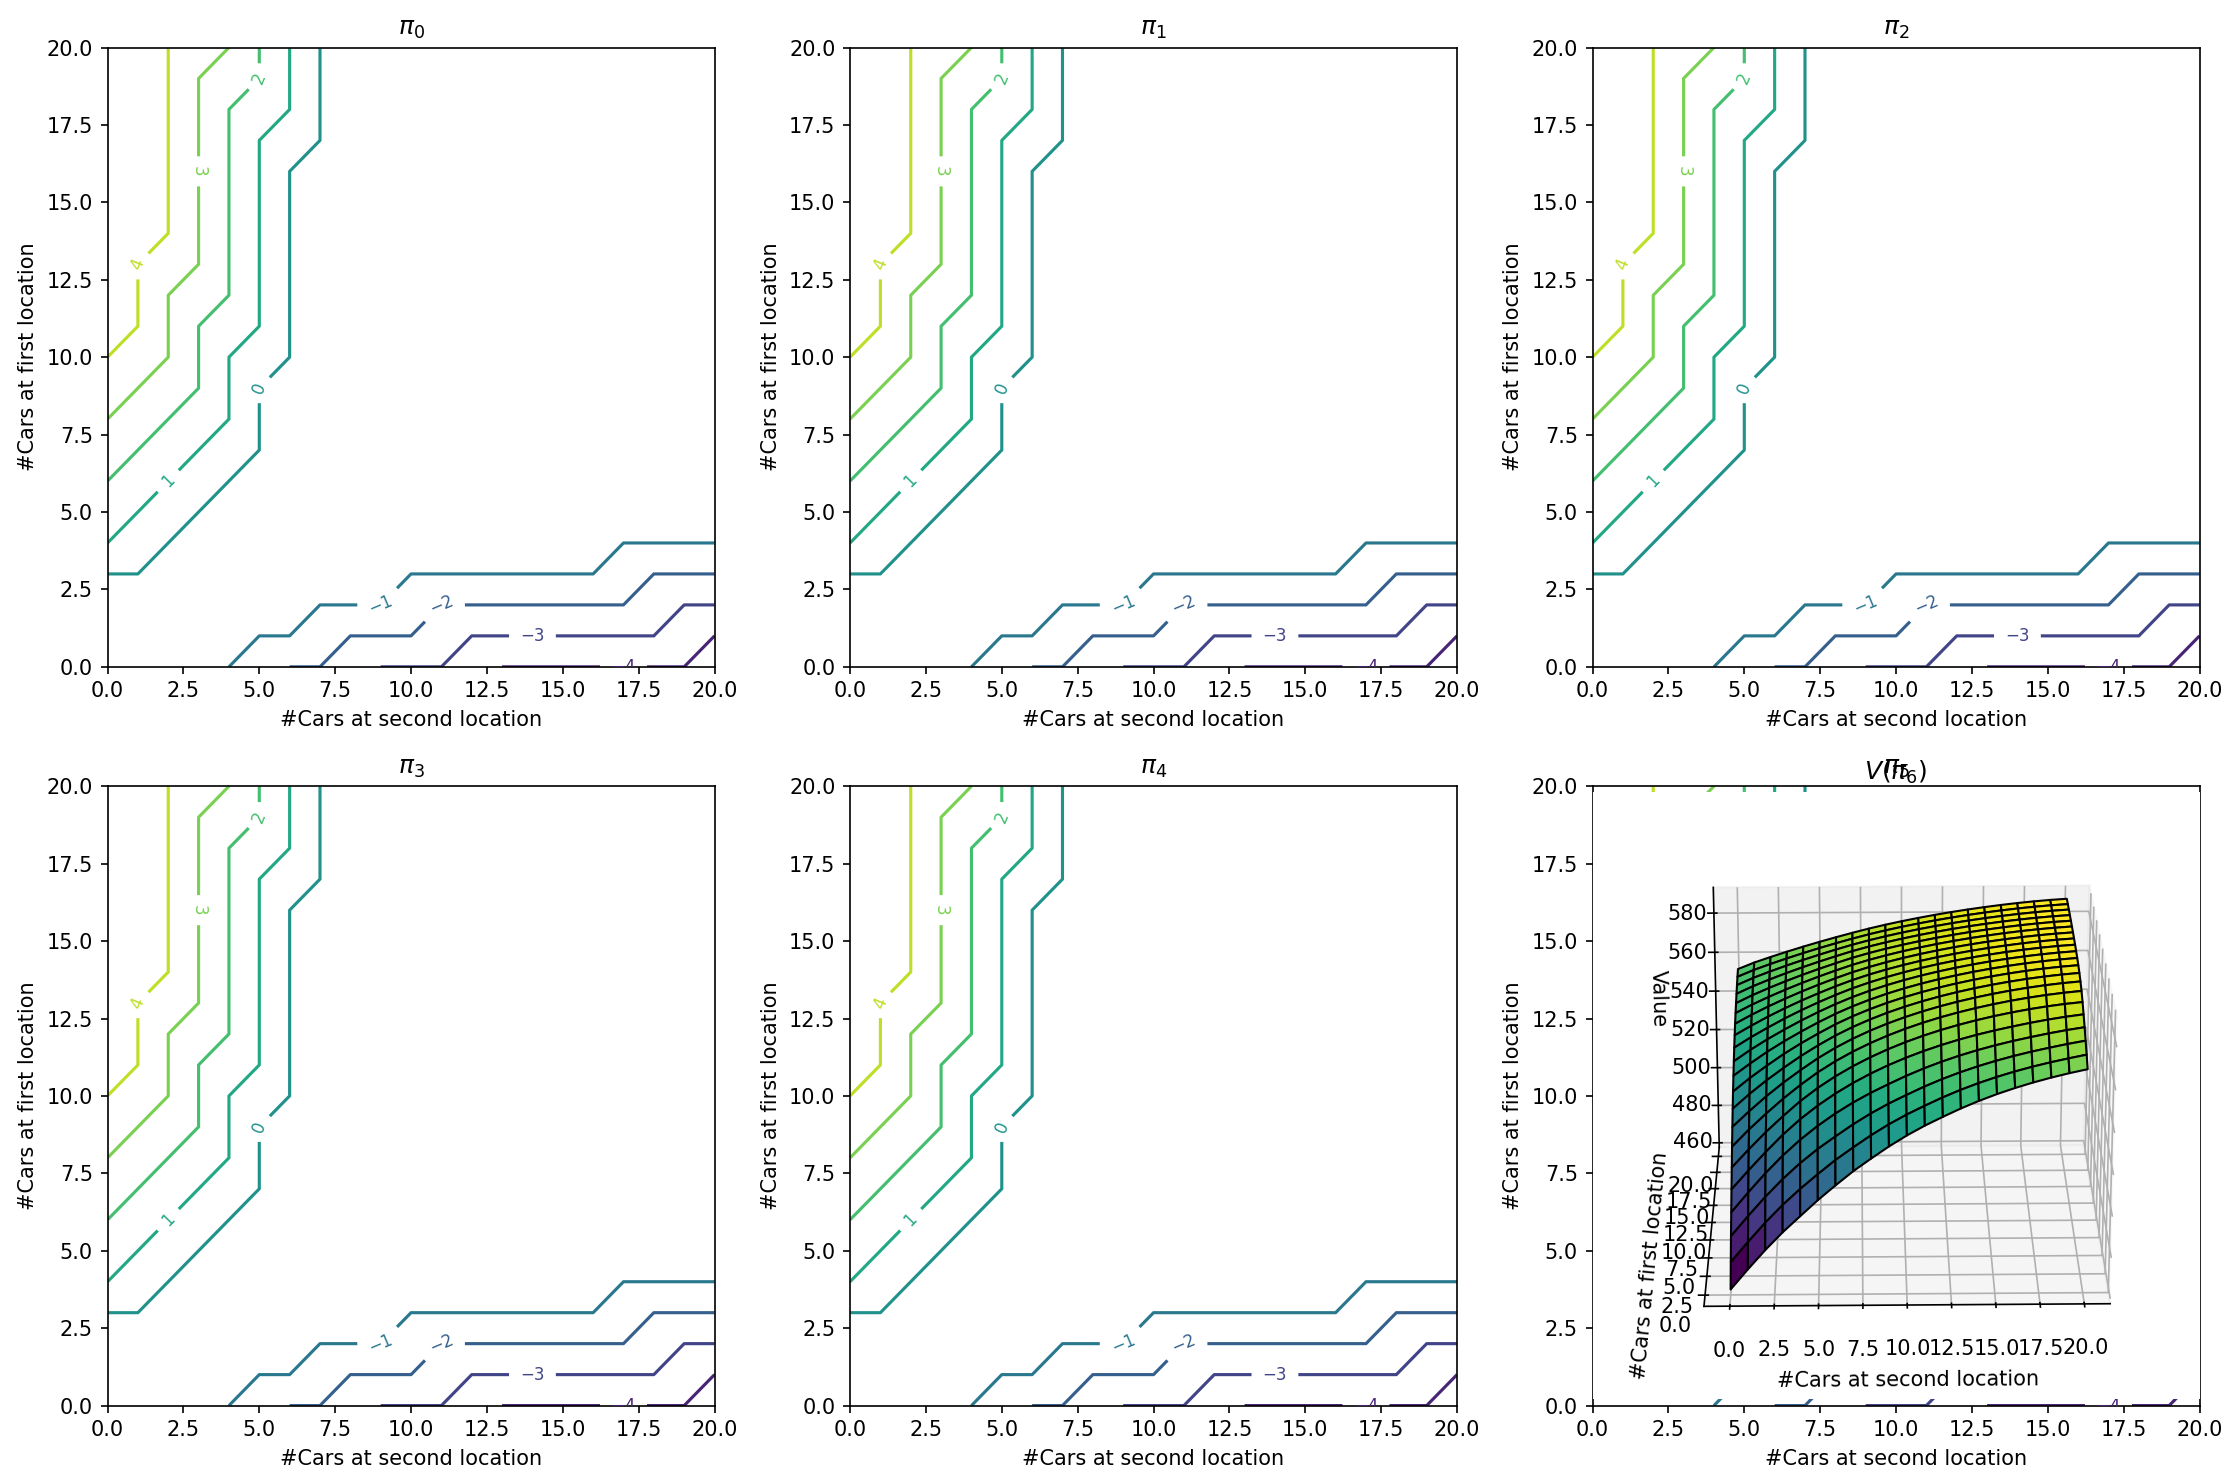
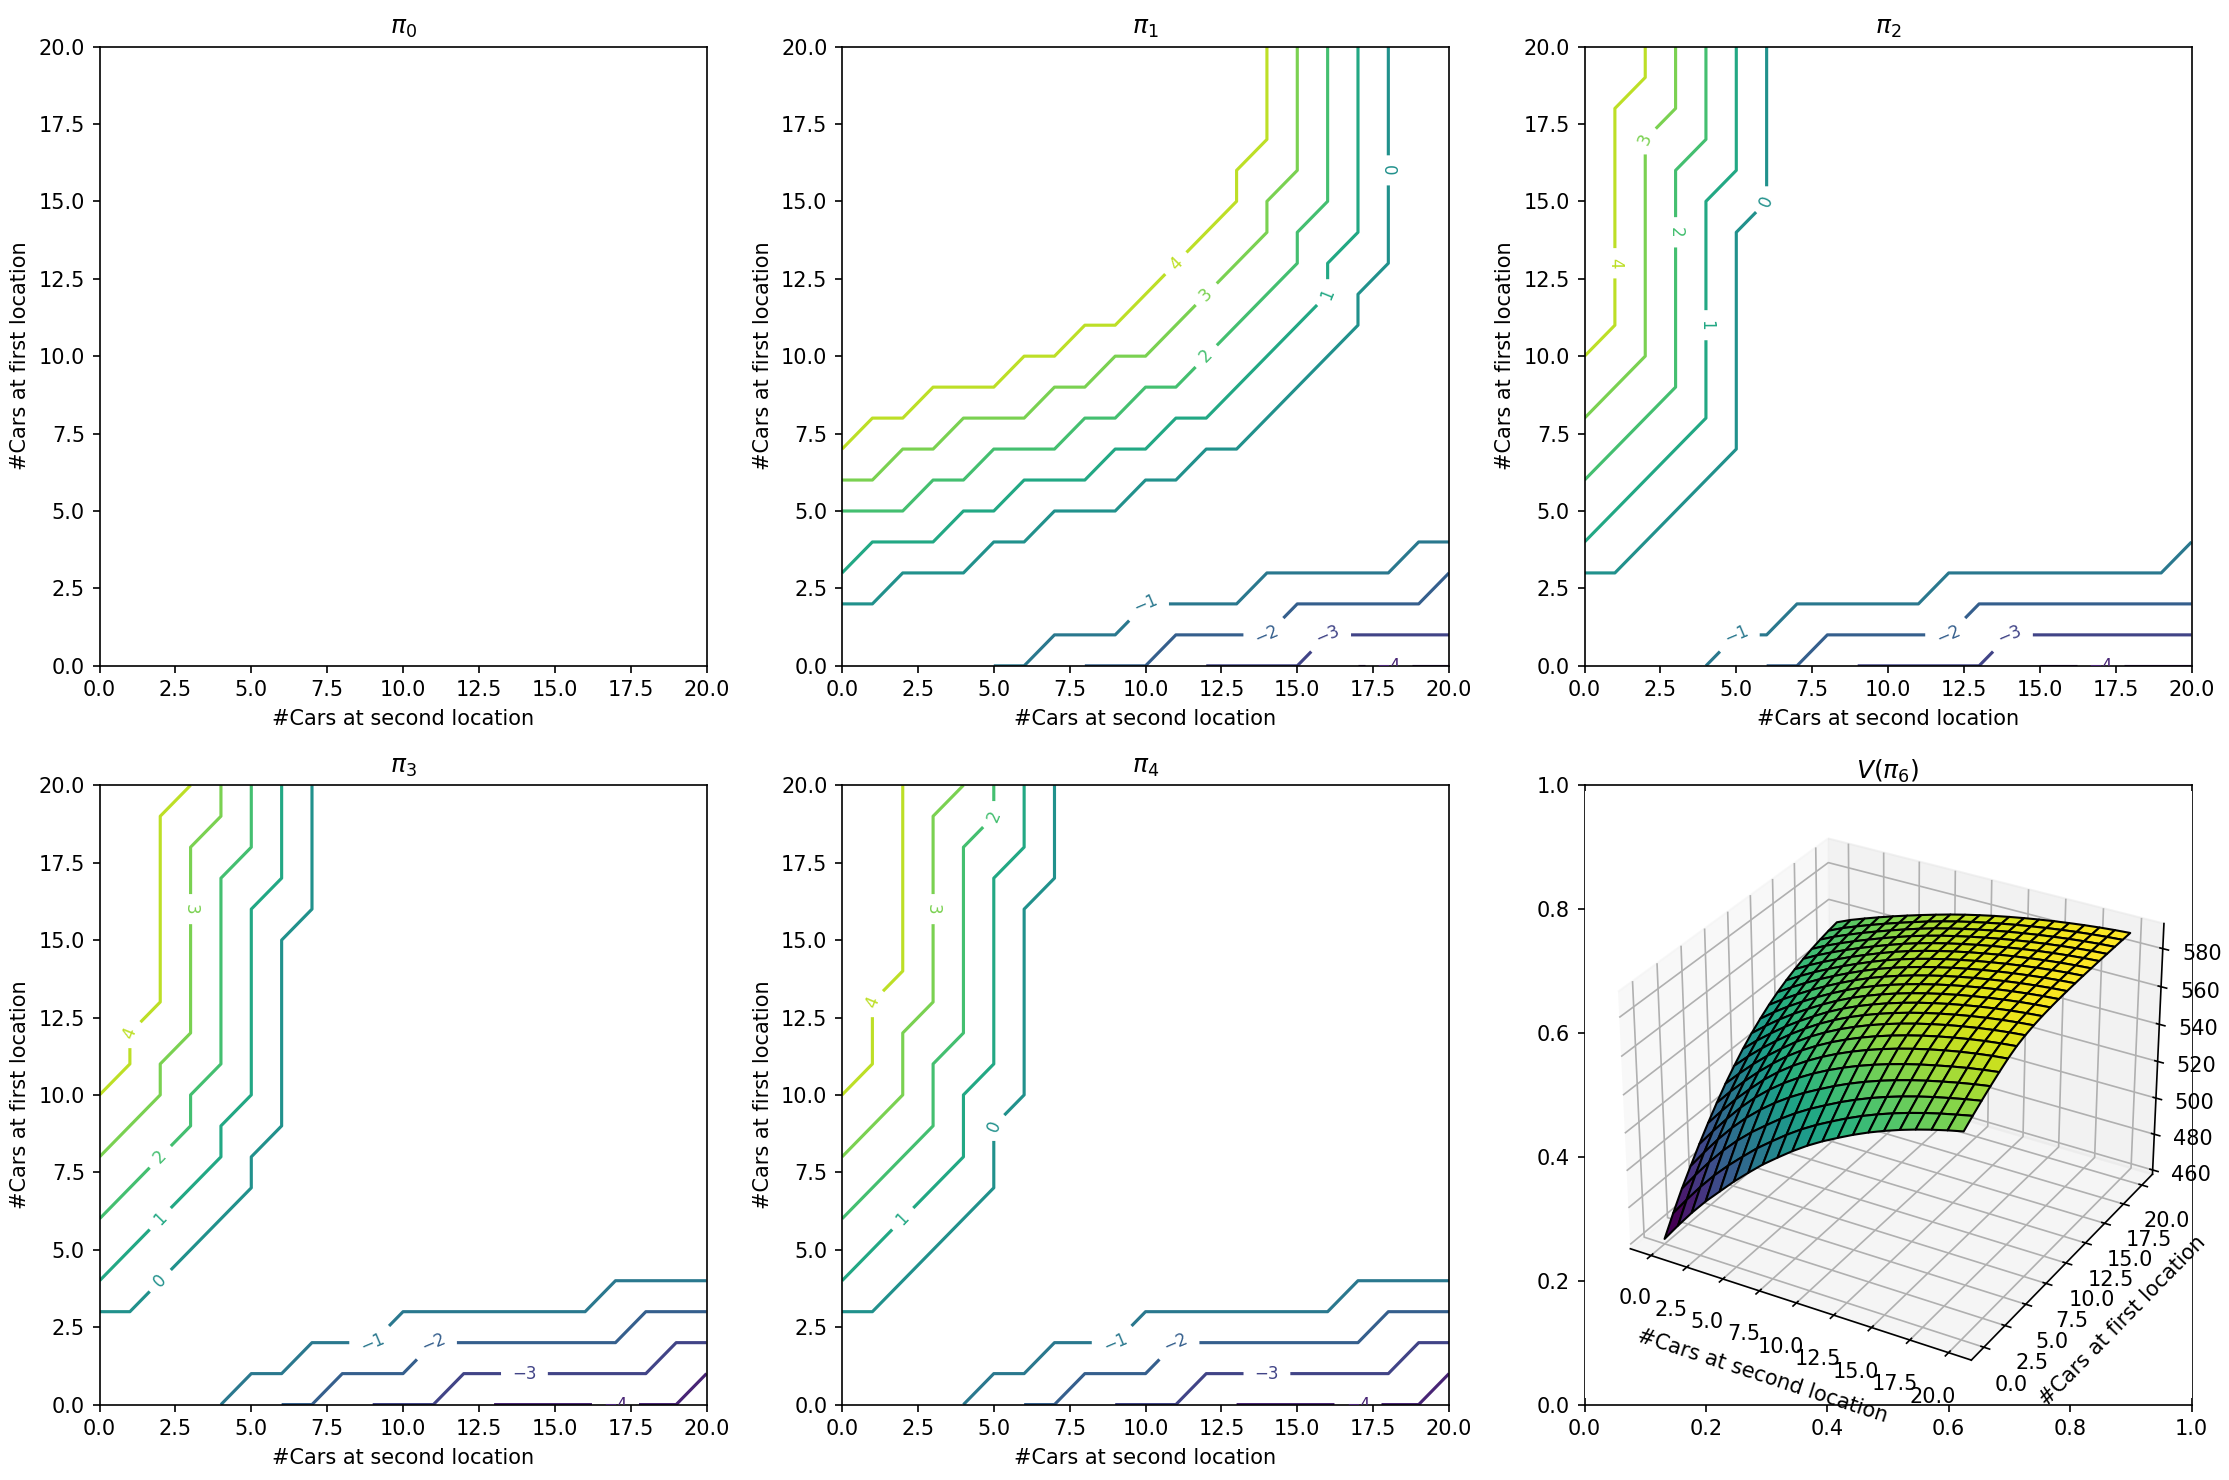
replot the original correctly

diff --git a/Chapter04/jacks_rental_solve.py b/Chapter04/jacks_rental_solve.py
@@ -22,15 +22,31 @@ MOVING_COST = 2
 LAMBDAS = np.array([[3, 4], [3, 2]], dtype=np.int32)
 MAX_POISSON = highest_poisson(np.max(LAMBDAS), 0.99)
 GAMMA = 0.9
+MAX_PARKING = 10
+OVERPARK_COST = 4
+ORIGINAL = False
 
 
 def get_expected_return(V, state, pi_s, poisson_probs, gamma):
     # Apply action and calculate moving cost
     cars_loc1 = min(state[0] - pi_s, MAX_CARS)
     cars_loc2 = min(state[1] + pi_s, MAX_CARS)
+
     moving_cost = MOVING_COST * abs(pi_s)
 
-    expected_return = -moving_cost
+    parking_cost = 0
+    if not ORIGINAL:
+        if pi_s > 0:
+            # First car to move from loc1 to loc2 is free
+            moving_cost -= MOVING_COST
+
+        # Any cars kept above MAX_PARKING cost an extra 4$ for all cars in a location
+        if cars_loc1 > MAX_PARKING:
+            parking_cost += 4
+        if cars_loc2 > MAX_PARKING:
+            parking_cost += 4
+
+    expected_return = -(moving_cost + parking_cost)
 
     # Iterate over possible rental requests at both locations
     for req1 in range(0, MAX_POISSON + 1):
@@ -133,8 +149,8 @@ def policy_iteration(gamma):
     V = np.zeros((MAX_CARS + 1, MAX_CARS + 1), dtype=np.float32)
     pi = np.zeros((MAX_CARS + 1, MAX_CARS + 1), dtype=np.int32)
 
-    values.append(V)
-    policies.append(pi)
+    values.append(V.copy())
+    policies.append(pi.copy())
 
     poisson_probs = build_poisson_probs(MAX_POISSON, LAMBDAS)
 
@@ -237,7 +253,9 @@ def main():
     fig.canvas.draw()
 
     # Save the figure with tight bounding box
-    plt.savefig("04_07_original.png", bbox_inches="tight")
+    plt.savefig(
+        f"04_07_{'original' if ORIGINAL else 'modified'}.png", bbox_inches="tight"
+    )
 
 
 def plot_agent(car_moves, rewards, cars):
